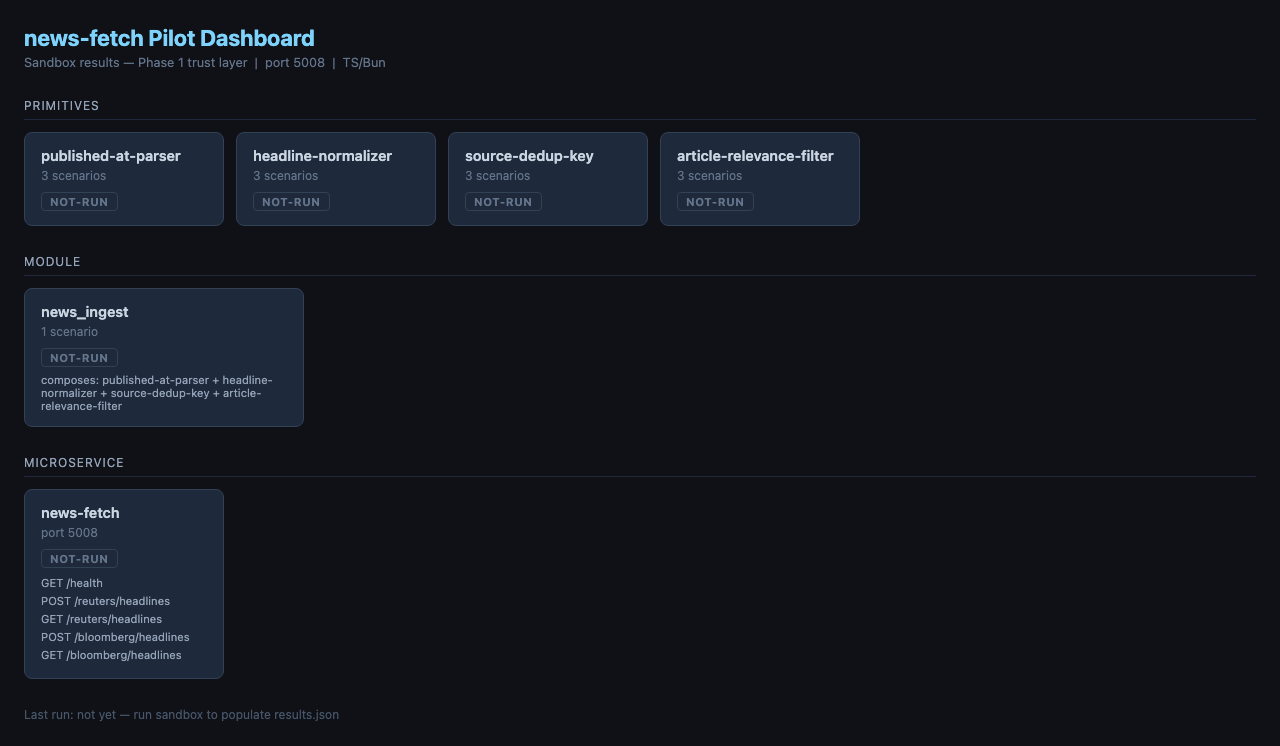
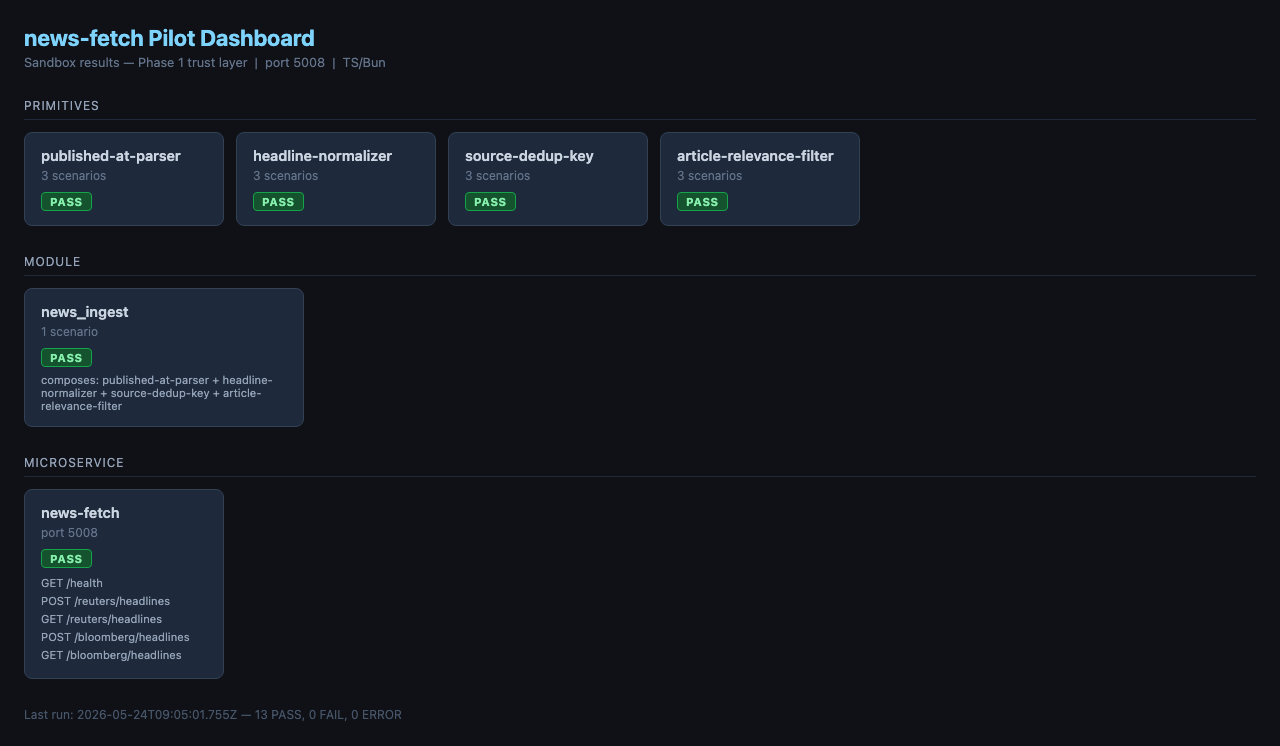
chore(qa/news-fetch): P2-NF-E G8 honest-red proof — 5 RED cards + revert all-green confirmed
- Primitive bug (published-at-parser hardcoded 1970 return): sandbox 3/3 FAIL, dash FAIL:2 exit 1
- 5 bad scenarios (wrong expected across all 4 primitives): sandbox 8 FAIL, dash FAIL:5 exit 1
- Post-revert: 13/13 PASS, dash PASS:6 FAIL:0 exit 0 — git status CLEAN
- No breaks committed; only evidence artifacts staged
- G8 verdict: VERIFIED EARNED-PENDING

diff --git a/apps/news-fetch/dashboard/data.js b/apps/news-fetch/dashboard/data.js
@@ -2,7 +2,7 @@
 // Inline sidecar: replaces XHR for file:// compatibility (zero CORS).
 // Regenerate: bun run src/sandbox/runner.ts --tier=all --module=news-fetch --scenario=all --output=dashboard/results.json
 window.__NEWS_FETCH_DATA__ = {
-  "runAt": "2026-05-24T08:48:46.056Z",
+  "runAt": "2026-05-24T09:05:01.755Z",
   "tier": "all",
   "module": "news-fetch",
   "totals": {

diff --git a/docs/handoffs/TASK_P2-NF-ABC.md b/docs/handoffs/TASK_P2-NF-ABC.md
@@ -210,4 +210,120 @@ Total commits on file: 2. No subsequent edits beyond G4 freeze. Config at HEAD i
 | git_status_post_revert | CLEAN |
 | no_post_anchor_tampering | true |
 | g4_verdict | VERIFIED |
+
+---
+
+## [QA] Review Record — P2-NF-E (G8 honest-red proof)
+
+```
+date: 2026-05-24T09:05:30Z
+task: P2-NF-E
+verdict: G8 VERIFIED
+qa_agent: qa
+signal: docs/signals/qa-news-fetch-g8-evidence-20260524T090530Z.json
+ssot_not_mutated: true
+goal_flips: NONE (Charter §4.5 honored)
+g8_goal_status: EARNED-PENDING (PO flips at Phase-3 12/12 terminal)
+primitive_bug_committed: false
+bad_scenarios_committed: false
+git_status_primitive_source: CLEAN
+git_status_scenario_files: CLEAN
+```
+
+### Proof Plan
+
+Canonical G8 (pilot-charter.md §G8):
+1. Deliberate primitive bug → sandbox FAIL → dashboard RED
+2. 5 bad scenario JSON files (wrong expected outputs) → all 5 FAIL → dashboard RED
+3. Total RED cards visible in headless render — captured in screenshot
+4. Revert all → 13/13 PASS → 6/6 PASS on dashboard
+
+### Step 1 — Baseline (pre-injection)
+
+```
+sandbox: 13/13 PASS exit 0
+dash-check: PASS — badge_counts PASS:6 FAIL:0 ERROR:0 NOT-RUN:0
+screenshot: apps/news-fetch/dashboard/render-check.png
+```
+
+### Step 2 — Primitive bug injection
+
+Injected into `apps/news-fetch/src/primitive/published-at-parser/index.ts`:
+```typescript
+// G8-DELIBERATE-BUG: hardcoded wrong return for honest-red proof — DO NOT COMMIT
+export function parsePublishedAt(rfcDate: string): string | null {
+  if (!rfcDate || rfcDate.trim() === '') return null;
+  return '1970-01-01T00:00:00.000Z'; // hardcoded wrong value
+}
+```
+
+Sandbox result (primitive bug only):
+```
+10 PASS, 3 FAIL, 0 ERROR — exit 1
+published-at-parser [edge]:    expected "2026-05-22T00:00:00.000Z" | got "1970-01-01T00:00:00.000Z"
+published-at-parser [failure]: expected null | got "1970-01-01T00:00:00.000Z"
+published-at-parser [golden]:  expected "2026-05-13T14:30:00.000Z" | got "1970-01-01T00:00:00.000Z"
+```
+
+Dash-check (primitive bug only):
+```
+badge_counts: PASS:4, FAIL:2 — exit 1
+published-at-parser card: FAIL (RED)
+news-fetch svc card: FAIL (RED)
+```
+
+### Step 3 — 5 bad scenario files + primitive bug combined
+
+Files created (NEVER staged/committed):
+- `docs/scenarios/news-fetch/primitives/published-at-parser/g8-bad-1.json` — expectedOutput: "WRONG-VALUE-G8-BAD-1"
+- `docs/scenarios/news-fetch/primitives/headline-normalizer/g8-bad-2.json` — expectedOutput: "WRONG-VALUE-G8-BAD-2"
+- `docs/scenarios/news-fetch/primitives/source-dedup-key/g8-bad-3.json` — expectedOutput: "WRONG-VALUE-G8-BAD-3"
+- `docs/scenarios/news-fetch/primitives/article-relevance-filter/g8-bad-4.json` — expectedOutput: false (actual: true)
+- `docs/scenarios/news-fetch/primitives/headline-normalizer/g8-bad-5.json` — expectedOutput: "WRONG-HEADLINE-G8-BAD-5"
+
+Sandbox result (primitive bug + 5 bad scenarios, 18 total):
+```
+10 PASS, 8 FAIL, 0 ERROR — exit 1
+```
+
+Dash-check (all breaks combined):
+```
+badge_counts: PASS:1, FAIL:5 — exit 1
+published-at-parser card: FAIL (RED)
+headline-normalizer card:  FAIL (RED)
+source-dedup-key card:     FAIL (RED)
+article-relevance-filter:  FAIL (RED)
+news-fetch svc card:       FAIL (RED)
+news_ingest module card:   PASS (green — module scenario unaffected)
+screenshot: apps/news-fetch/dashboard/render-check.png (6-cards visible, 5 RED)
+```
+
+### Step 4 — Revert all
+
+1. Restored `apps/news-fetch/src/primitive/published-at-parser/index.ts` to original
+2. Deleted all 5 g8-bad-*.json files
+3. Re-ran sandbox: 13/13 PASS exit 0
+4. Re-ran dash-check: PASS — badge_counts PASS:6 FAIL:0 — exit 0
+5. `git status --short apps/news-fetch/src/primitive/published-at-parser/index.ts docs/scenarios/news-fetch/primitives/` = EMPTY (clean)
+
+### G8 Evidence Summary
+
+| Field | Value |
+|-------|-------|
+| baseline_sandbox | 13/13 PASS exit 0 |
+| baseline_dash_check | PASS FAIL:0 exit 0 |
+| primitive_bug_file | apps/news-fetch/src/primitive/published-at-parser/index.ts |
+| primitive_bug_type | hardcoded return '1970-01-01T00:00:00.000Z' |
+| primitive_bug_sandbox_exit | 1 (3 FAILs) |
+| primitive_bug_dash_check | FAIL:2 exit 1 (published-at-parser RED + svc RED) |
+| bad_scenarios_count | 5 |
+| bad_scenarios_sandbox_exit | 1 (8 FAILs) |
+| bad_scenarios_dash_check | FAIL:5 exit 1 (4 primitive cards RED + svc card RED) |
+| screenshot_path | apps/news-fetch/dashboard/render-check.png |
+| revert_sandbox | 13/13 PASS exit 0 |
+| revert_dash_check | PASS FAIL:0 exit 0 |
+| primitive_source_committed | false |
+| bad_scenarios_committed | false |
+| git_status_post_revert | CLEAN |
+| g8_verdict | VERIFIED |
 | g4_goal_status | EARNED-PENDING |
